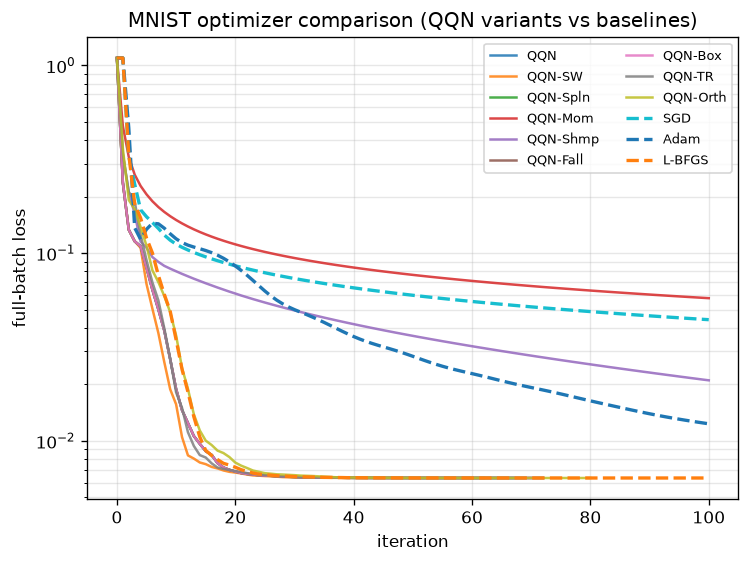
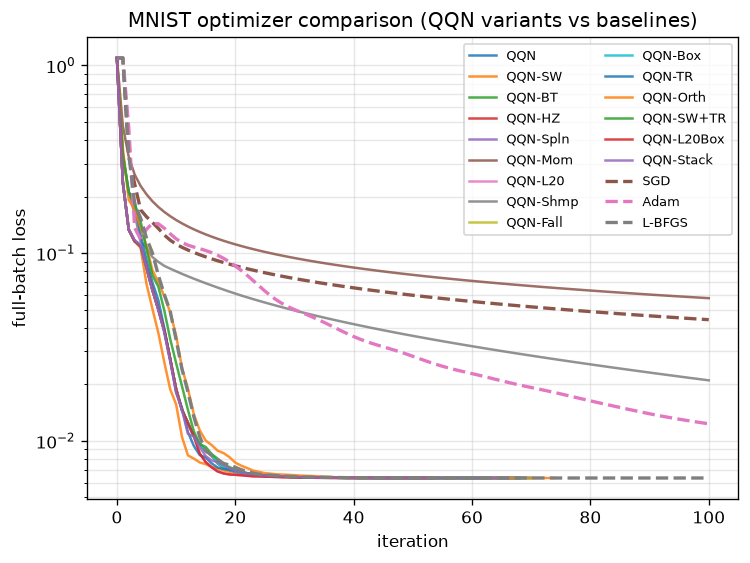
wip

diff --git a/examples/mnist_comparison.py b/examples/mnist_comparison.py
@@ -35,6 +35,7 @@ from qqn_jax.regions import (
     BoxRegion,
     TrustRegion,
     OrthantRegion,
+    Sequential,
 )
 
 
@@ -287,6 +288,20 @@ def main():
             maxiter,
             line_search="strong_wolfe",
         ),
+        # --- QQN with backtracking line search (cheap, robust) ---
+        "QQN-BT": lambda: _run_qqn_configured(
+            loss_fn,
+            params0,
+            maxiter,
+            line_search="backtracking",
+        ),
+        # --- QQN with Hager-Zhang line search (efficient Wolfe variant) ---
+        "QQN-HZ": lambda: _run_qqn_configured(
+            loss_fn,
+            params0,
+            maxiter,
+            line_search="hager_zhang",
+        ),
         # --- QQN with a cubic Hermite spline line search ---
         "QQN-Spln": lambda: _run_qqn_configured(
             loss_fn,
@@ -301,12 +316,19 @@ def main():
             maxiter,
             oracle=MomentumOracle(beta=0.9),
         ),
+        # --- QQN with a deeper L-BFGS history (richer curvature memory) ---
+        "QQN-L20": lambda: _run_qqn_configured(
+            loss_fn,
+            params0,
+            maxiter,
+            oracle=LBFGSOracle(history_size=20),
+        ),
         # --- QQN with a Shampoo (structure-aware) oracle ---
         "QQN-Shmp": lambda: _run_qqn_configured(
             loss_fn,
             params0,
             maxiter,
-            oracle=ShampooOracle(update_freq=10),
+            oracle=ShampooOracle(update_freq=1),
         ),
         # --- QQN with a Fallback oracle: L-BFGS, else momentum ---
         "QQN-Fall": lambda: _run_qqn_configured(
@@ -335,6 +357,30 @@ def main():
             params0,
             maxiter,
             region=OrthantRegion(),
+        ),
+        # --- Combined: strong-Wolfe search + adaptive trust-region ---
+        "QQN-SW+TR": lambda: _run_qqn_configured(
+            loss_fn,
+            params0,
+            maxiter,
+            line_search="strong_wolfe",
+            region=TrustRegion(radius=1.0, adaptive=True),
+        ),
+        # --- Combined: deep L-BFGS oracle + box constraint ---
+        "QQN-L20Box": lambda: _run_qqn_configured(
+            loss_fn,
+            params0,
+            maxiter,
+            oracle=LBFGSOracle(history_size=20),
+            region=BoxRegion(lo=-2.0, hi=2.0),
+        ),
+        # --- Combined: Fallback oracle + Sequential (box ∩ trust) region ---
+        "QQN-Stack": lambda: _run_qqn_configured(
+            loss_fn,
+            params0,
+            maxiter,
+            oracle=Fallback([LBFGSOracle(history_size=10), MomentumOracle(beta=0.9)]),
+            region=Sequential([BoxRegion(lo=-2.0, hi=2.0), TrustRegion(radius=2.0)]),
         ),
         "SGD": lambda: run_optax(
             loss_fn, params0, optax.sgd(learning_rate=0.5), maxiter

diff --git a/examples/mnist_sparse_benchmark.py b/examples/mnist_sparse_benchmark.py
@@ -69,6 +69,7 @@ def load_mnist(
     if x_train is None:
         try:
             from tensorflow.keras.datasets import mnist  # type: ignore
+
             (xtr, ytr), (xte, yte) = mnist.load_data()
             x_train = xtr.reshape(xtr.shape[0], -1).astype(np.float32) / 255.0
             y_train = ytr.astype(np.int32)